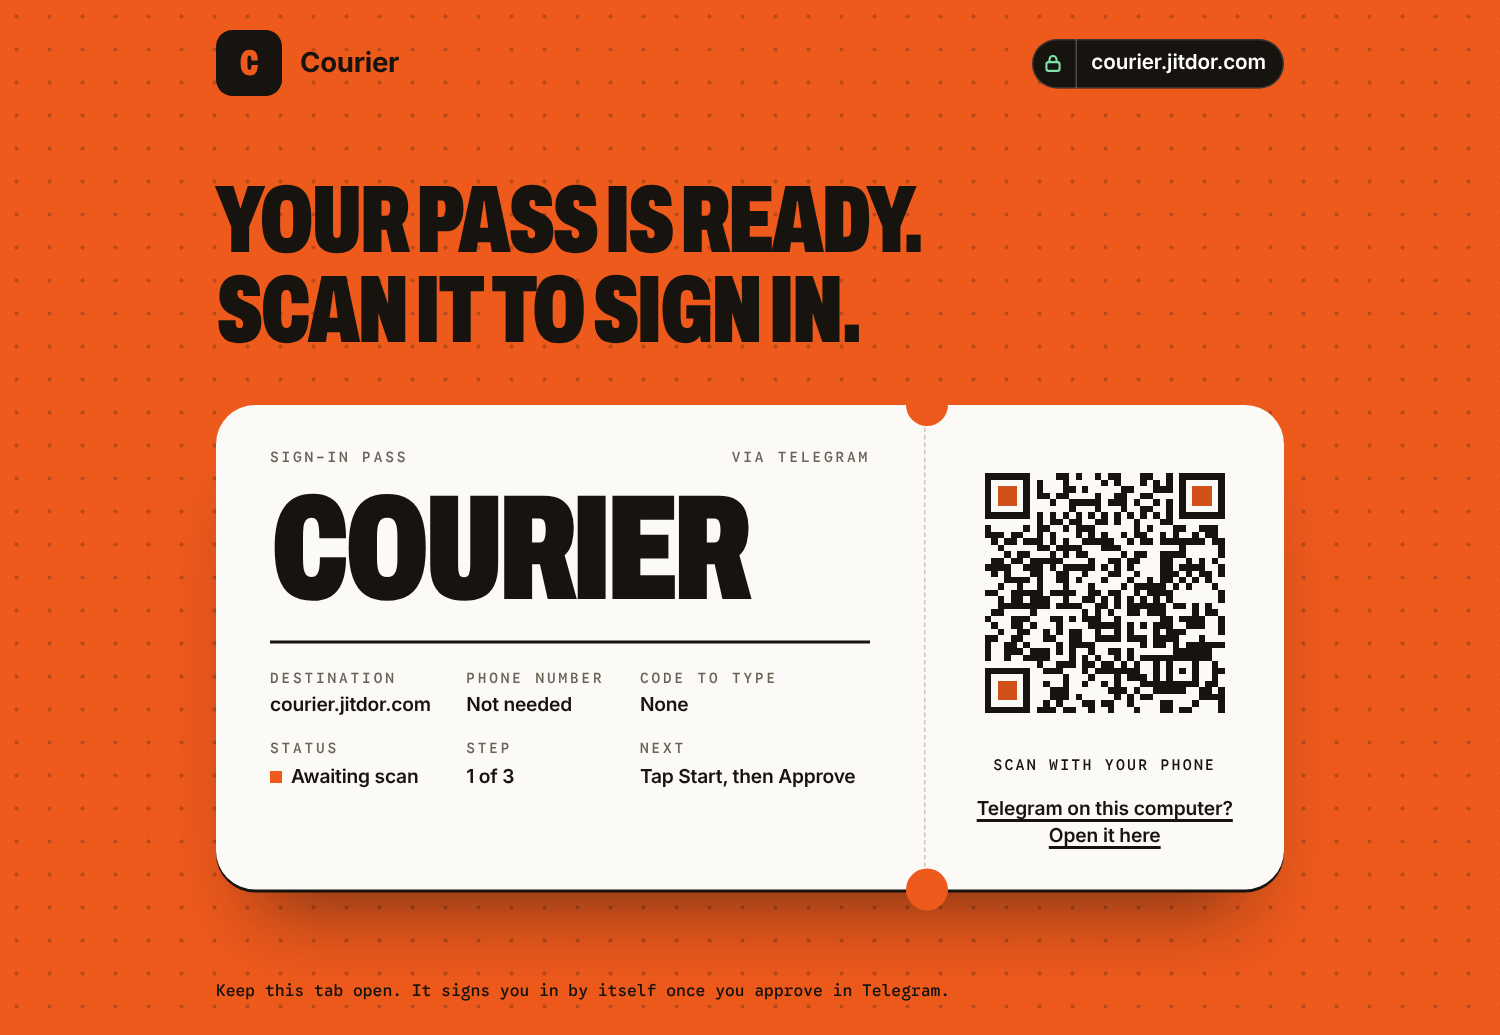
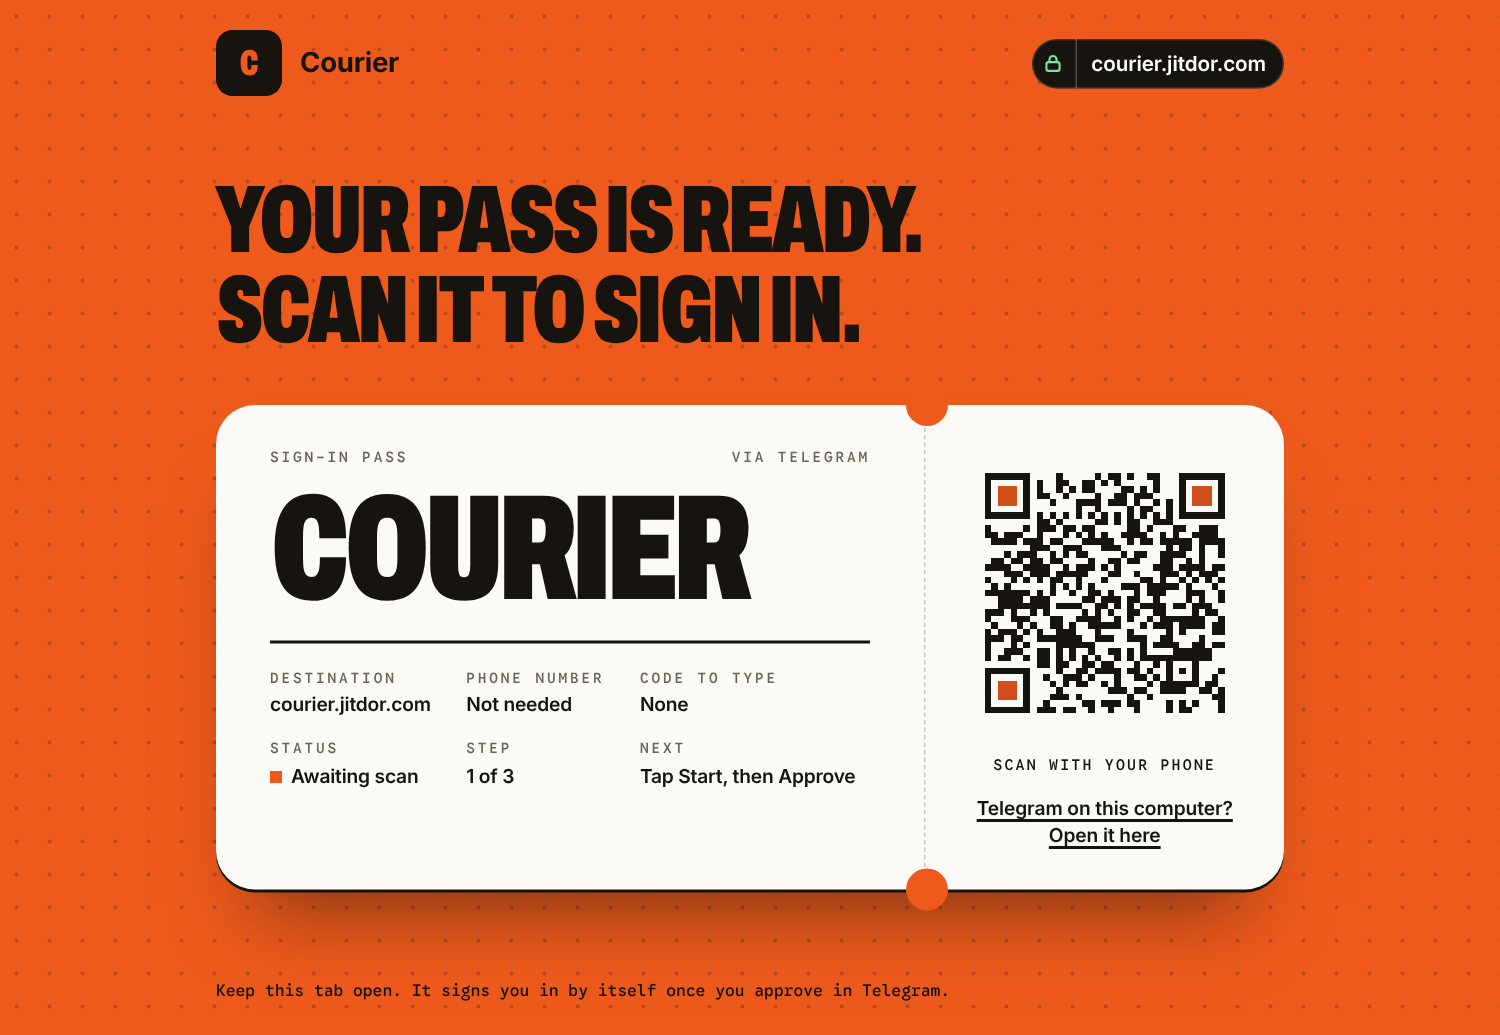
Lower the address text in the pill by 1px
Visually the text still read a hair high; this moves it down a pixel, keeping
the pill the same size. Easy to revert on its own if it looks worse.

Claude-Session: https://claude.ai/code/session_01Fm8P6ct3acd1WpajC3GeS1

Changed region(s): [[0.644, 0.4638, 0.828, 0.6802], [0.736, 0.0309, 0.828, 0.0928]]

diff --git a/src/login-page.js b/src/login-page.js
@@ -232,7 +232,7 @@ function loginStyles(branding, fontsPath) {
   .tqa-site-open .tqa-lock::before { background: #ffc15e; -webkit-mask-image: ${MASK_UNLOCK}; mask-image: ${MASK_UNLOCK}; }
   /* Lower-case text has its weight in the x-height, below the middle of the line, and browsers put text on whole device pixels, so padding alone
      jumps between "a little low" and "too high". Measured on 1x, 2x and 3x screens, these values land the x-height within a third of a pixel of the middle. */
-  .tqa-host { min-width: 0; padding: 7.1px 12px 9.4px 10px; overflow-wrap: anywhere; }
+  .tqa-host { min-width: 0; padding: 8.1px 12px 8.4px 10px; overflow-wrap: anywhere; }
   .tqa-stage { flex: 1; display: flex; flex-direction: column; justify-content: center; padding: clamp(1.5rem, 5vh, 3.5rem) 0 1.5rem; }
   .tqa-headline {
     margin: 0 0 clamp(1.25rem, 3.5vw, 2rem); font: 900 clamp(2rem, 11.4vw, 4rem)/0.94 var(--tqa-display);
